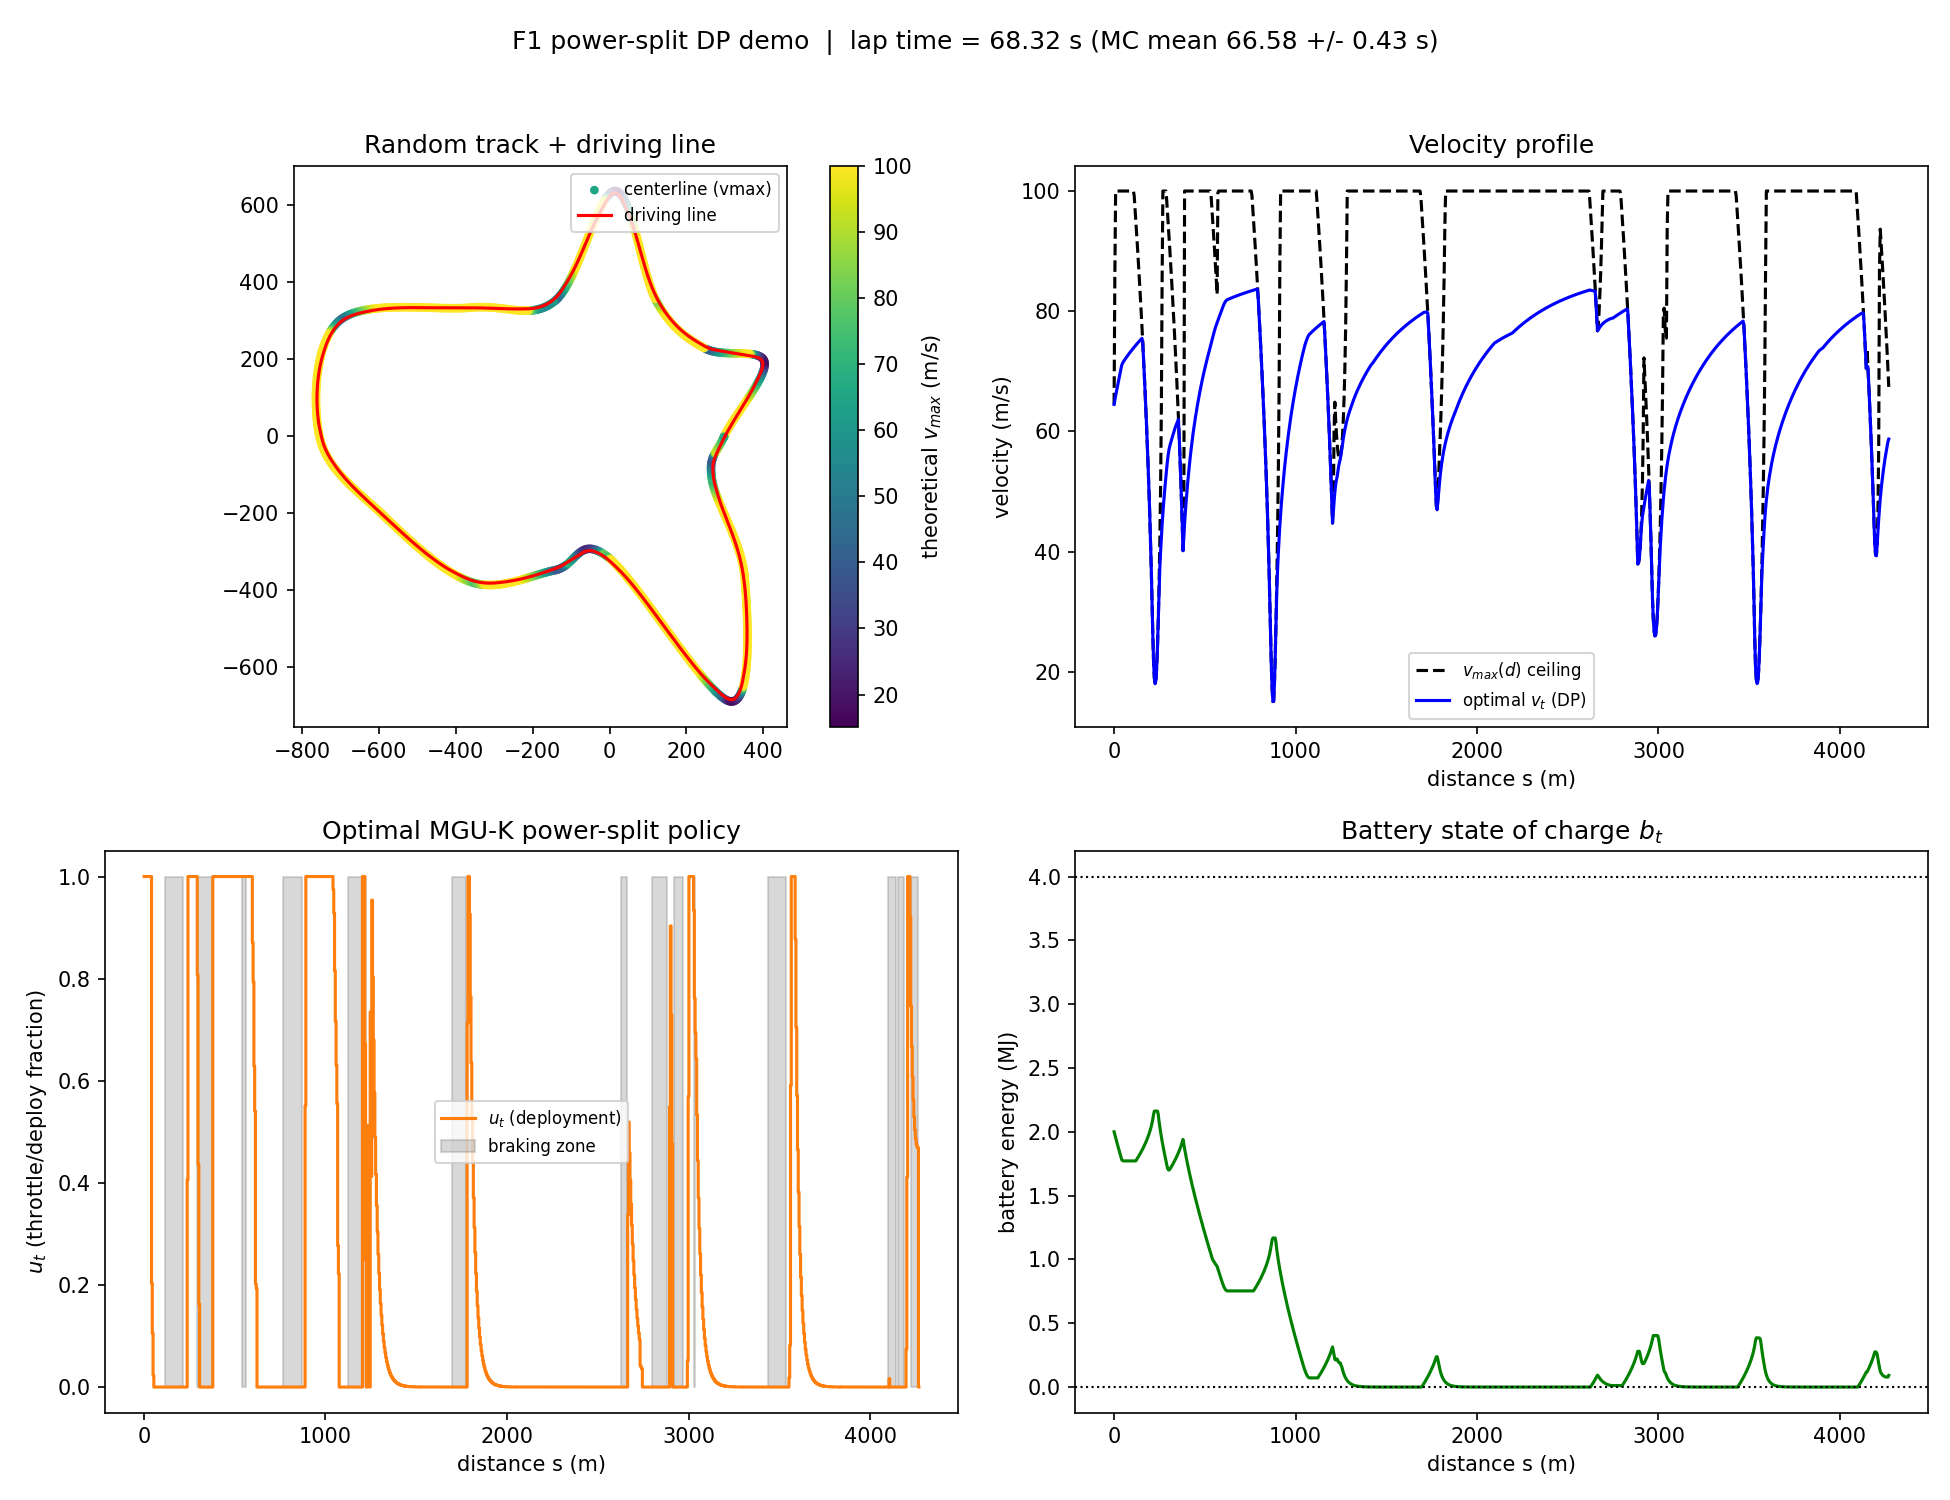
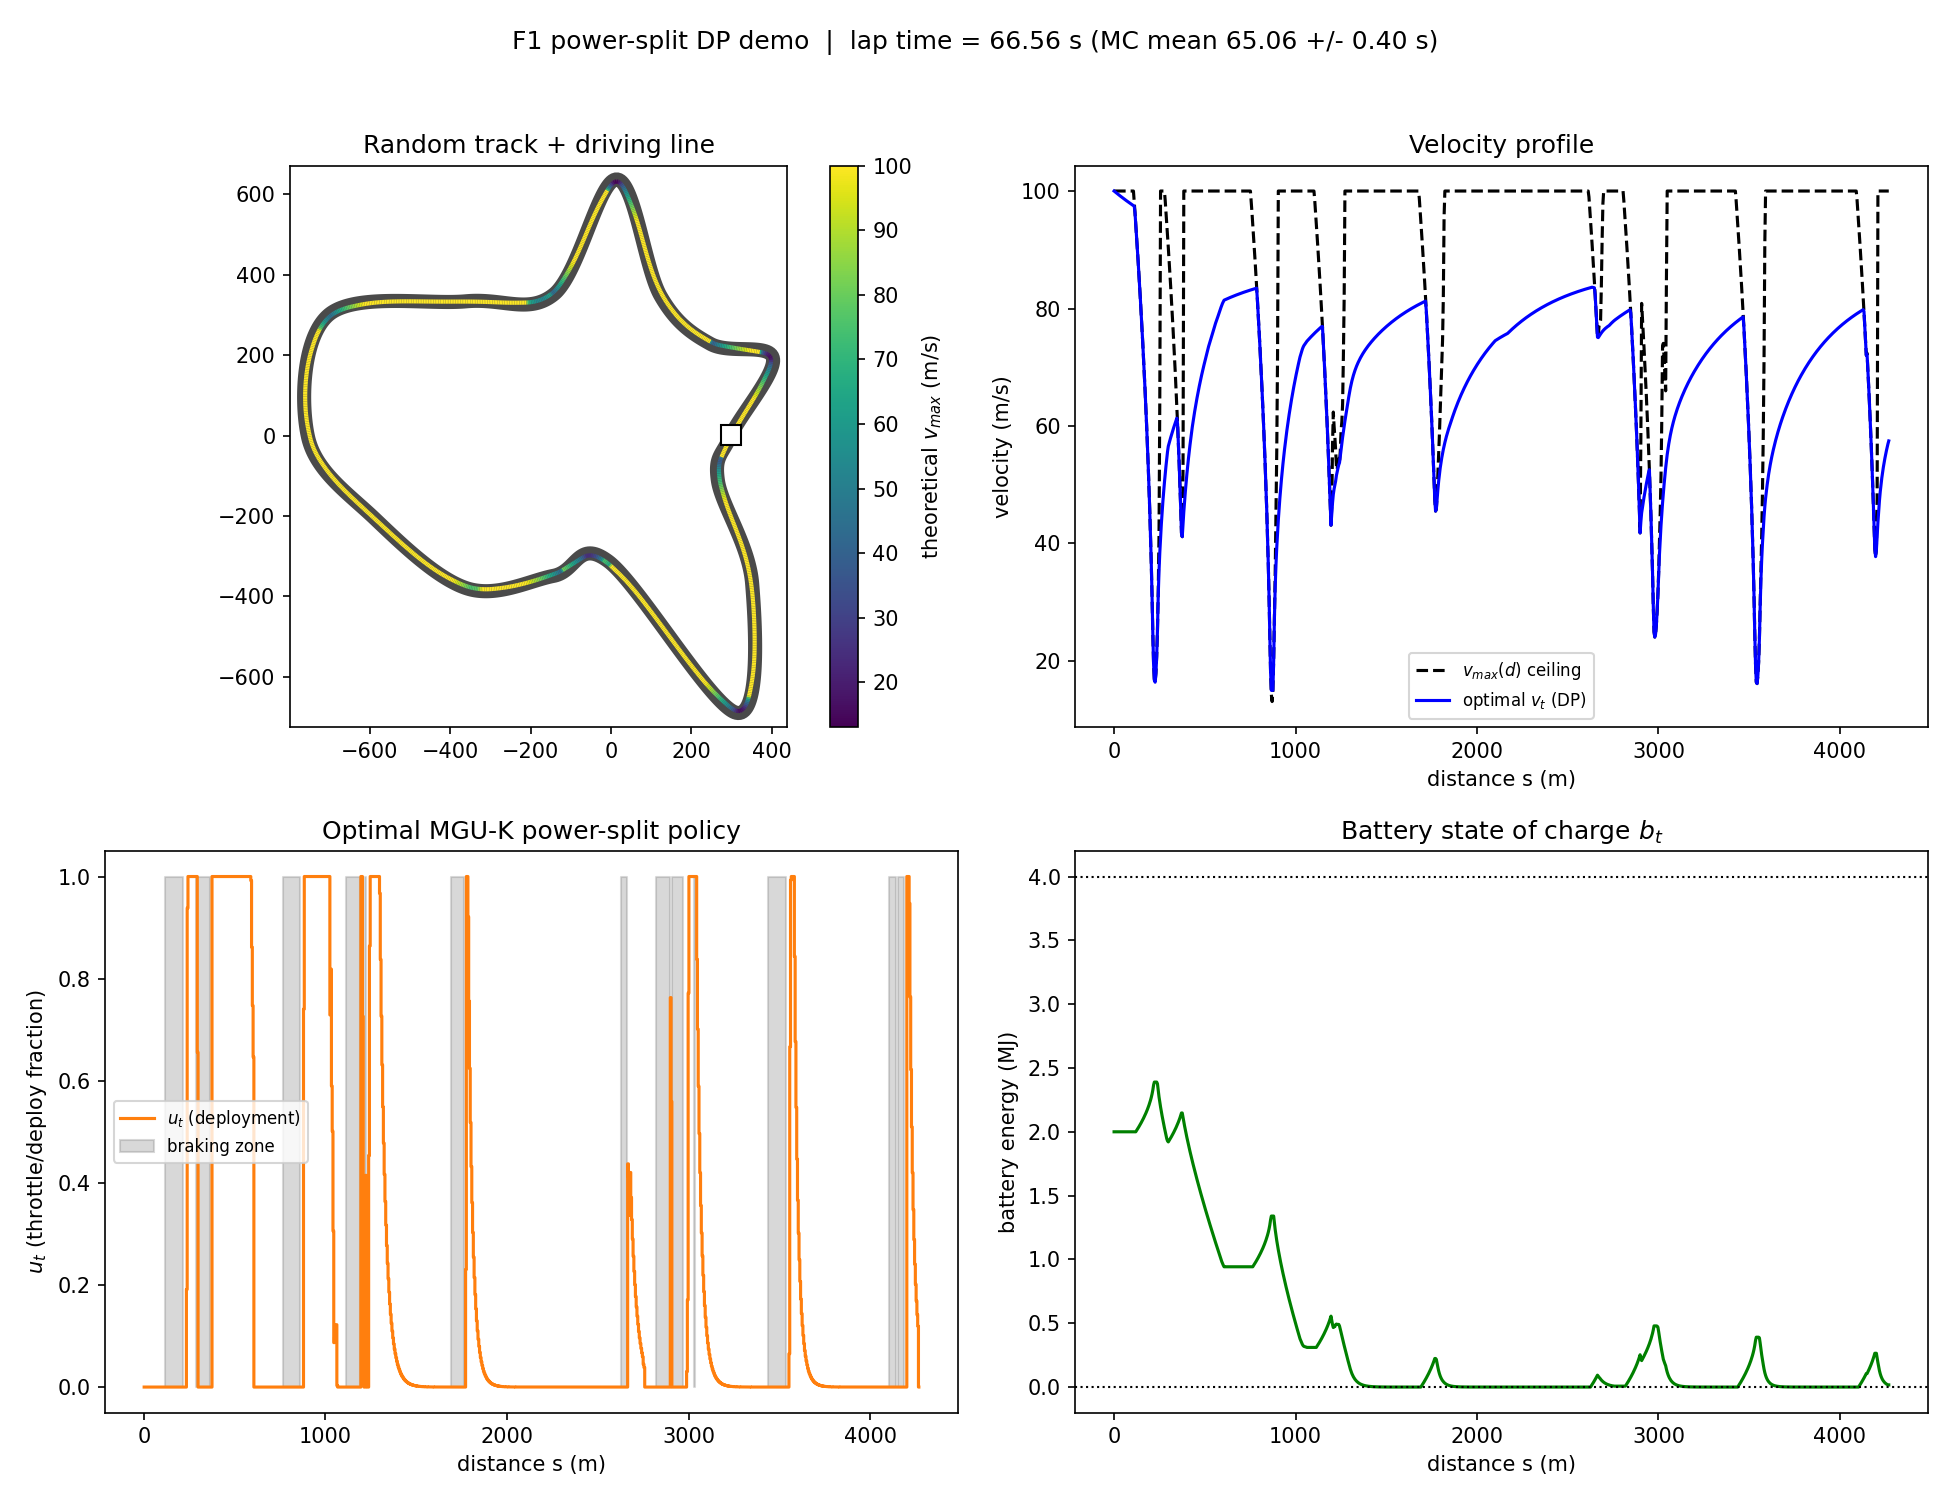
[DEV] Refactor vehicle dynamics
This commit centralizes the force, drag, and braking/regen calculations in a new utils/dynamics.py module and updates the Bellman solver and simulator to use those helpers. It also resamples the track to equal arc-length and recalculates curvature consistently before solving the QSS speed ceiling, improving the track model used in the demo. Plotting was refreshed to show the track surface and driving line more clearly, and the Monte Carlo rollout count was reduced to keep the demo faster.

diff --git a/main.py b/main.py
@@ -27,7 +27,8 @@ IMMEDIATE NEXT STEPS:
  
 import numpy as np
 import matplotlib.pyplot as plt
-from utils import qss, gettrack as gt
+from matplotlib.collections import LineCollection
+from utils import qss, gettrack as gt, dynamics 
 
 rng = np.random.default_rng(100)
 
@@ -41,7 +42,6 @@ rho_air    = 1.225        # kg/m^3
 CdA        = 1.20         # m^2, drag area (Cd * frontal area), ballpark
 ClA        = 3.50         # m^2, downforce area (Cl * frontal area), ballpark
 Crr        = 0.015        # rolling resistance coefficient, ballpark
-F_rolling  = Crr * m * g  # N, constant rolling resistance force (eq. 2)
 
 P_ice_max   = 400e3       # W, ballpark ICE peak power under 2026 regs (~536 hp)
 P_mguk_max  = 350e3       # W, ballpark MGU-K peak power under 2026 regs
@@ -53,39 +53,6 @@ eta_regen  = 0.6          # regen harvesting efficiency, ballpark
 
 v_top      = 100.0        # m/s (~360 km/h) absolute top-speed cap
 v_min      = 15.0         # m/s floor, avoids division singularities
-
-# ---------------------------------------------------------------------------
-#    Force model (Eq. 2)
-# ---------------------------------------------------------------------------
-def F_ice(v):
-    """Traction-limited at low speed, power-limited at high speed."""
-    return np.minimum(F_trac_max, P_ice_max / np.maximum(v, 1.0))
-
-def F_drag(v, drag_mult):
-    return 0.5 * rho_air * CdA * drag_mult * v**2
-
-
-# ---------------------------------------------------------------------------
-#    Braking-zone flags & regen energy potential R(d_t) (Eq. 4)
-# ---------------------------------------------------------------------------
-def braking_zones_and_regen(vmax, ds):
-    n_seg = len(vmax) - 1
-    BZ = np.zeros(n_seg, dtype=bool)
-    R = np.zeros(n_seg)
-    for t in range(n_seg):
-        if vmax[t + 1] < vmax[t] - 2.0:      # must shed speed -> braking zone
-            BZ[t] = True
-            v_avg = 0.5 * (vmax[t] + vmax[t + 1])
-            t_brake = ds / max(v_avg, 1.0)
-            energy_available = 0.5 * m * (vmax[t]**2 - vmax[t + 1]**2)
-            R[t] = min(P_mguk_max * t_brake, energy_available)
-    return BZ, R
-
-
-def drag_multiplier(kappa, kappa_thresh=1.0 / 300.0):
-    """Straights (low curvature) run a lower-drag / DRS-like aero setting."""
-    return np.where(np.abs(kappa) < kappa_thresh, 0.80, 1.00)
-
 
 # ---------------------------------------------------------------------------
 #    Bilinear interpolation, vectorized (grid -> arbitrary query shape)
@@ -119,7 +86,7 @@ def solve_bellman(disc, vmax, BZ, R, n_v=31, n_b=25, n_u=11):
     n_seg = disc["n_seg"]
     ds = disc["ds"]
     kappa = disc["kappa"]
-    drag_mult = drag_multiplier(kappa)
+    drag_mult = dynamics.drag_multiplier(kappa)
 
     v_grid = np.linspace(v_min, v_top, n_v)
     b_grid = np.linspace(0.0, b_max, n_b)
@@ -139,18 +106,20 @@ def solve_bellman(disc, vmax, BZ, R, n_v=31, n_b=25, n_u=11):
     eps = noise_vals.reshape(1, 1, 1, -1)
 
     dt_arr = ds / v_col                                    # (Nv,1,1,1)
-    Fice = F_ice(v_col)                                     # (Nv,1,1,1)
+    Fice = dynamics.F_ice(F_trac_max, P_ice_max, v_col)                                     # (Nv,1,1,1)
 
     for t in reversed(range(n_seg)):
         V_next = V[t + 1]                                   # (Nv, Nb)
 
-        Fmguk = u_row * P_mguk_max / v_col                   # (Nv,1,Nu,1)
-        Fdrag = F_drag(v_col, drag_mult[t])                  # (Nv,1,1,1)
-        Fn = Fice + Fmguk - Fdrag - F_rolling                # (Nv,1,Nu,1)
+        Fmguk = dynamics.F_MGUK(P_mguk_max, u_row, v_col)                        #(Nv,1,Nu,1)
+        Fdrag = dynamics.F_drag(rho_air, CdA, v_col, drag_mult[t])                  # (Nv,1,1,1)
+        Fn = Fice + Fmguk - Fdrag - dynamics.F_rolling(Crr, m, g)                # (Nv,1,Nu,1)
 
+        # ---- NEXT STEP VELOCITY ----
         v_next = np.minimum(v_col + Fn / m * dt_arr, vmax[t + 1])
         v_next = np.clip(v_next, v_min, v_top)               # (Nv,1,Nu,1)
 
+        # ---- NEXT STEP BATTERY ----
         b_deploy = u_row * P_mguk_max * dt_arr               # (Nv,1,Nu,1)
         regen = float(BZ[t]) * eta_regen * R[t]
 
@@ -162,6 +131,7 @@ def solve_bellman(disc, vmax, BZ, R, n_v=31, n_b=25, n_u=11):
 
         EV = np.tensordot(Vq, noise_wts, axes=([3], [0]))    # (Nv,Nb,Nu)
 
+        # ---- PER STEP COST ----
         ell = (ds / v_grid).reshape(n_v, 1, 1)               # Eq. 5 stage cost
         cost = ell + EV                                      # (Nv,Nb,Nu)
 
@@ -203,8 +173,7 @@ def simulate(disc, vmax, BZ, R, sol, v0=None, b0=None, stochastic=False, rng=Non
             u = 0.0
 
         dt_seg = ds / max(v, 1.0)
-        Fn = (F_ice(v) + u * P_mguk_max / max(v, 1.0)
-              - F_drag(v, drag_mult[t]) - F_rolling)
+        Fn = (dynamics.F_ice(F_trac_max, P_ice_max, v) + u * P_mguk_max / max(v, 1.0) - dynamics.F_drag(rho_air, CdA, v, drag_mult[t]) - dynamics.F_rolling(Crr, m, g))
         v_next = min(v + Fn / m * dt_seg, vmax[t + 1])
         v_next = float(np.clip(v_next, v_min, v_top))
 
@@ -230,21 +199,26 @@ def simulate(disc, vmax, BZ, R, sol, v0=None, b0=None, stochastic=False, rng=Non
 #    Run the full demo
 # ---------------------------------------------------------------------------
 def main():
+
     track = gt.generate_track(seed=1)
     disc = gt.discretize_track(track, n_seg=1000)
+
+    line_x, line_y = gt.driving_line(disc)
+    line_x, line_y, ds_line = gt.resample_equal_arclength(line_x, line_y, disc["n_seg"])
+    disc["kappa"] = gt.line_curvature(line_x, line_y, ds_line)
+    disc["ds"] = ds_line
 
     # ----- twopass QSS v_max computation -----
     vehicle = qss.VehicleParams(mass=m, mu=mu_tire, rho=rho_air, cl_a=ClA, v_top=v_top)
     vmax_seg = qss.compute_qss_vmax(disc["kappa"], disc["ds"], vehicle, a_accel_max=6.0, a_brake_max=45.0)
     # ---------------------------------
-    
-    BZ, R = braking_zones_and_regen(vmax_seg, disc["ds"])
-    line_x, line_y = gt.driving_line(disc)
 
-    print(f"Track length DL              : {disc['DL']:8.1f} m")
-    print(f"Number of segments N         : {disc['n_seg']:8d}")
-    print(f"Segment length ds            : {disc['ds']:8.2f} m")
-    print(f"Braking zones identified     : {int(BZ.sum()):8d}")
+    BZ, R = dynamics.braking_zones_and_regen(m, P_mguk_max, vmax_seg, disc["ds"])
+
+    print(f"Track length                    : {disc['DL']:8.1f} m")
+    print(f"Number of segments              : {disc['n_seg']:8d}")
+    print(f"Segment length (driving line)   : {disc['ds']:8.2f} m")
+    print(f"Braking zones identified        : {int(BZ.sum()):8d}")
     print("Solving stochastic Bellman recursion (this may take a few seconds)...")
 
     sol = solve_bellman(disc, vmax_seg, BZ, R, n_v=31, n_b=25, n_u=11)
@@ -254,7 +228,7 @@ def main():
 
     # Monte-Carlo forward rollouts under battery noise to show the
     # stochastic character of the problem
-    n_mc = 200
+    n_mc = 10
     mc_rng = np.random.default_rng(1)
     mc_times = np.array([
         simulate(disc, vmax_seg, BZ, R, sol, stochastic=True, rng=mc_rng)["lap_time"]
@@ -268,15 +242,31 @@ def main():
 
     fig, axes = plt.subplots(2, 2, figsize=(13, 10))
 
-    # (a) track + driving line, colored by theoretical vmax
     ax = axes[0, 0]
-    sc = ax.scatter(disc["x"], disc["y"], c=np.append(vmax_seg[:-1], vmax_seg[-1]),
-                     cmap="viridis", s=10, label="centerline (vmax)")
-    ax.plot(line_x, line_y, color="red", lw=1.5, label="driving line")
+    ax.plot(disc["x"][0], disc["y"][0], marker="s", color="white", markeredgecolor="black", markersize=10, zorder=3, label="start/finish")
+
+    track_half_width = 15.0
+    nx, ny = gt._unit_normals(disc["x"][:-1], disc["y"][:-1])
+    left_x  = disc["x"][:-1] + track_half_width * nx
+    left_y  = disc["y"][:-1] + track_half_width * ny
+    right_x = disc["x"][:-1] - track_half_width * nx
+    right_y = disc["y"][:-1] - track_half_width * ny
+
+    poly_x = np.concatenate([left_x, right_x[::-1]])
+    poly_y = np.concatenate([left_y, right_y[::-1]])
+    ax.fill(poly_x, poly_y, color="#4a4a4a", zorder=1, label="track surface")
+
+    points = np.array([line_x, line_y]).T.reshape(-1, 1, 2)
+    segments = np.concatenate([points, np.roll(points, -1, axis=0)], axis=1)
+    lc = LineCollection(segments, cmap="viridis", linewidth=2, zorder=2)
+    lc.set_array(vmax_seg)
+    ax.add_collection(lc)
+
+    ax.set_xlim(poly_x.min() - 20, poly_x.max() + 20)
+    ax.set_ylim(poly_y.min() - 20, poly_y.max() + 20)
     ax.set_aspect("equal")
     ax.set_title("Random track + driving line")
-    ax.legend(loc="upper right", fontsize=8)
-    plt.colorbar(sc, ax=ax, label=r"theoretical $v_{max}$ (m/s)")
+    plt.colorbar(lc, ax=ax, label=r"theoretical $v_{max}$ (m/s)")
 
     # (b) velocity profile: theoretical ceiling vs DP-optimal trajectory
     ax = axes[0, 1]

diff --git a/utils/gettrack.py b/utils/gettrack.py
@@ -37,39 +37,6 @@ def _catmull_rom_periodic(pts, samples_per_seg=60):
         ys.append(seg[:, 1])
     return np.concatenate(xs), np.concatenate(ys)
 
-def generate_track(seed=None, R0=500.0, n_ctrl=16, radius_jitter=0.55,
-                    samples_per_seg=60):
-    rgen = np.random.default_rng(seed)
-
-    # angularly sorted control points (guarantees a simple, non self
-    # intersecting loop) with strong radial jitter -> some tight corners
-    base_theta = np.linspace(0, 2 * np.pi, n_ctrl, endpoint=False)
-    theta_jitter = rgen.uniform(-0.5, 0.5, n_ctrl) * (np.pi / n_ctrl) * 0.6
-    ctrl_theta = base_theta + theta_jitter
-    ctrl_r = R0 * (1.0 + rgen.uniform(-radius_jitter, radius_jitter, n_ctrl))
-    ctrl_pts = np.stack([ctrl_r * np.cos(ctrl_theta),
-                          ctrl_r * np.sin(ctrl_theta)], axis=1)
-
-    x, y = _catmull_rom_periodic(ctrl_pts, samples_per_seg=samples_per_seg)
-    n_fine = len(x)
-    t_param = np.arange(n_fine)                    # uniform parameter index
-
-    # numerical derivatives wrt parameter (curvature formula is invariant
-    # to the choice of regular parameterization)
-    dx = np.gradient(x, t_param, edge_order=2)
-    dy = np.gradient(y, t_param, edge_order=2)
-    d2x = np.gradient(dx, t_param, edge_order=2)
-    d2y = np.gradient(dy, t_param, edge_order=2)
-
-    speed = np.sqrt(dx**2 + dy**2) + 1e-9
-    kappa = (dx * d2y - dy * d2x) / speed**3
-
-    ds_fine = np.concatenate([[0.0], np.cumsum(
-        0.5 * (speed[:-1] + speed[1:]))])
-    DL = ds_fine[-1] + 0.5 * (speed[-1] + speed[0])   # closes the loop
-
-    return dict(theta=t_param, x=x, y=y, kappa=kappa, s=ds_fine, DL=DL)
-
 def _unit_normals(x, y):
     """Left-hand unit normal at each point of an (open) polyline, via
     simple centered finite differences on the tangent direction."""
@@ -119,6 +86,62 @@ def _relax_alpha(x, y, nx, ny, max_offset, n_iters=300, step_size=0.5,
     return alpha
 
 # ---------- CORE FUNCTIONS ----------
+
+def generate_track(seed=None, R0=500.0, n_ctrl=16, radius_jitter=0.55,
+                    samples_per_seg=60):
+    rgen = np.random.default_rng(seed)
+
+    # angularly sorted control points (guarantees a simple, non self
+    # intersecting loop) with strong radial jitter -> some tight corners
+    base_theta = np.linspace(0, 2 * np.pi, n_ctrl, endpoint=False)
+    theta_jitter = rgen.uniform(-0.5, 0.5, n_ctrl) * (np.pi / n_ctrl) * 0.6
+    ctrl_theta = base_theta + theta_jitter
+    ctrl_r = R0 * (1.0 + rgen.uniform(-radius_jitter, radius_jitter, n_ctrl))
+    ctrl_pts = np.stack([ctrl_r * np.cos(ctrl_theta),
+                          ctrl_r * np.sin(ctrl_theta)], axis=1)
+
+    x, y = _catmull_rom_periodic(ctrl_pts, samples_per_seg=samples_per_seg)
+    n_fine = len(x)
+    t_param = np.arange(n_fine)                    # uniform parameter index
+
+    # numerical derivatives wrt parameter (curvature formula is invariant
+    # to the choice of regular parameterization)
+    dx = np.gradient(x, t_param, edge_order=2)
+    dy = np.gradient(y, t_param, edge_order=2)
+    d2x = np.gradient(dx, t_param, edge_order=2)
+    d2y = np.gradient(dy, t_param, edge_order=2)
+
+    speed = np.sqrt(dx**2 + dy**2) + 1e-9
+    kappa = (dx * d2y - dy * d2x) / speed**3
+
+    ds_fine = np.concatenate([[0.0], np.cumsum(
+        0.5 * (speed[:-1] + speed[1:]))])
+    DL = ds_fine[-1] + 0.5 * (speed[-1] + speed[0])   # closes the loop
+
+    return dict(theta=t_param, x=x, y=y, kappa=kappa, s=ds_fine, DL=DL)
+
+def resample_equal_arclength(x, y, n_seg):
+    """Reparametrize a closed polyline (x[-1] ~= x[0]) to n_seg equal
+    arc-length segments. Returns x, y, and a scalar ds - same convention
+    as discretize_track's output."""
+    seg_lengths = np.hypot(np.diff(x), np.diff(y))
+    s = np.concatenate([[0.0], np.cumsum(seg_lengths)])
+    L = s[-1]
+    s_new = np.linspace(0, L, n_seg + 1)
+    x_new = np.interp(s_new, s, x)
+    y_new = np.interp(s_new, s, y)
+    return x_new, y_new, L / n_seg
+
+
+def line_curvature(x, y, ds):
+    """Curvature of an equal-arc-length-spaced polyline, using ds as the
+    uniform step for the finite-difference derivatives."""
+    dx = np.gradient(x, ds)
+    dy = np.gradient(y, ds)
+    d2x = np.gradient(dx, ds)
+    d2y = np.gradient(dy, ds)
+    speed = np.sqrt(dx**2 + dy**2) + 1e-9
+    return (dx * d2y - dy * d2x) / speed**3
 
 def discretize_track(track, n_seg=60):
     """Resample the track into n_seg segments of EQUAL arc length ds,

diff --git a/utils/dynamics.py b/utils/dynamics.py
@@ -1,0 +1,45 @@
+import numpy as np
+
+# ---------------------------------------------------------------------------
+#    Force models
+# ---------------------------------------------------------------------------
+def F_ice(F_trac_max, P_ice_max, v):
+    """Force generated by the Internal Combustion Engine.
+    Traction-limited at low speed, power-limited at high speed."""
+    return np.minimum(F_trac_max, P_ice_max / np.maximum(v, 1.0))
+
+def F_MGUK(P_mguk_max, u_row, v_col):
+    """Force Generated by the Motor Generator Unit -- Kinetic"""
+    return u_row * P_mguk_max / v_col
+
+def F_drag(rho_air, CdA, v, drag_mult):
+    """Opposing force generated by drag"""
+    return 0.5 * rho_air * CdA * drag_mult * v**2
+
+def F_rolling(Crr, m, g):
+    """ Opposing generated by rolling friction. Constant."""
+    return Crr * m * g
+
+# ---------------------------------------------------------------------------
+#    Braking-zone flags, regen energy potential R(d_t) & Drag Multiplier dynamics
+# ---------------------------------------------------------------------------
+def braking_zones_and_regen(m, P_mguk_max, vmax, ds):
+    n_seg = len(vmax) - 1
+    BZ = np.zeros(n_seg, dtype=bool)
+    R = np.zeros(n_seg)
+    for t in range(n_seg):
+        if vmax[t + 1] < vmax[t] - 2.0:      # must shed speed -> braking zone
+            BZ[t] = True
+            v_avg = 0.5 * (vmax[t] + vmax[t + 1])
+
+            # ---- BRAKE-BATTERY HARVEST DYNAMICS ----
+            t_brake = ds / max(v_avg, 1.0)
+            energy_available = 0.5 * m * (vmax[t]**2 - vmax[t + 1]**2)
+            R[t] = min(P_mguk_max * t_brake, energy_available)
+            # ---- ----
+
+    return BZ, R
+
+def drag_multiplier(kappa, kappa_thresh=1.0 / 300.0):
+    """Straights (low curvature) run a lower-drag / DRS-like aero setting."""
+    return np.where(np.abs(kappa) < kappa_thresh, 0.80, 1.00)
